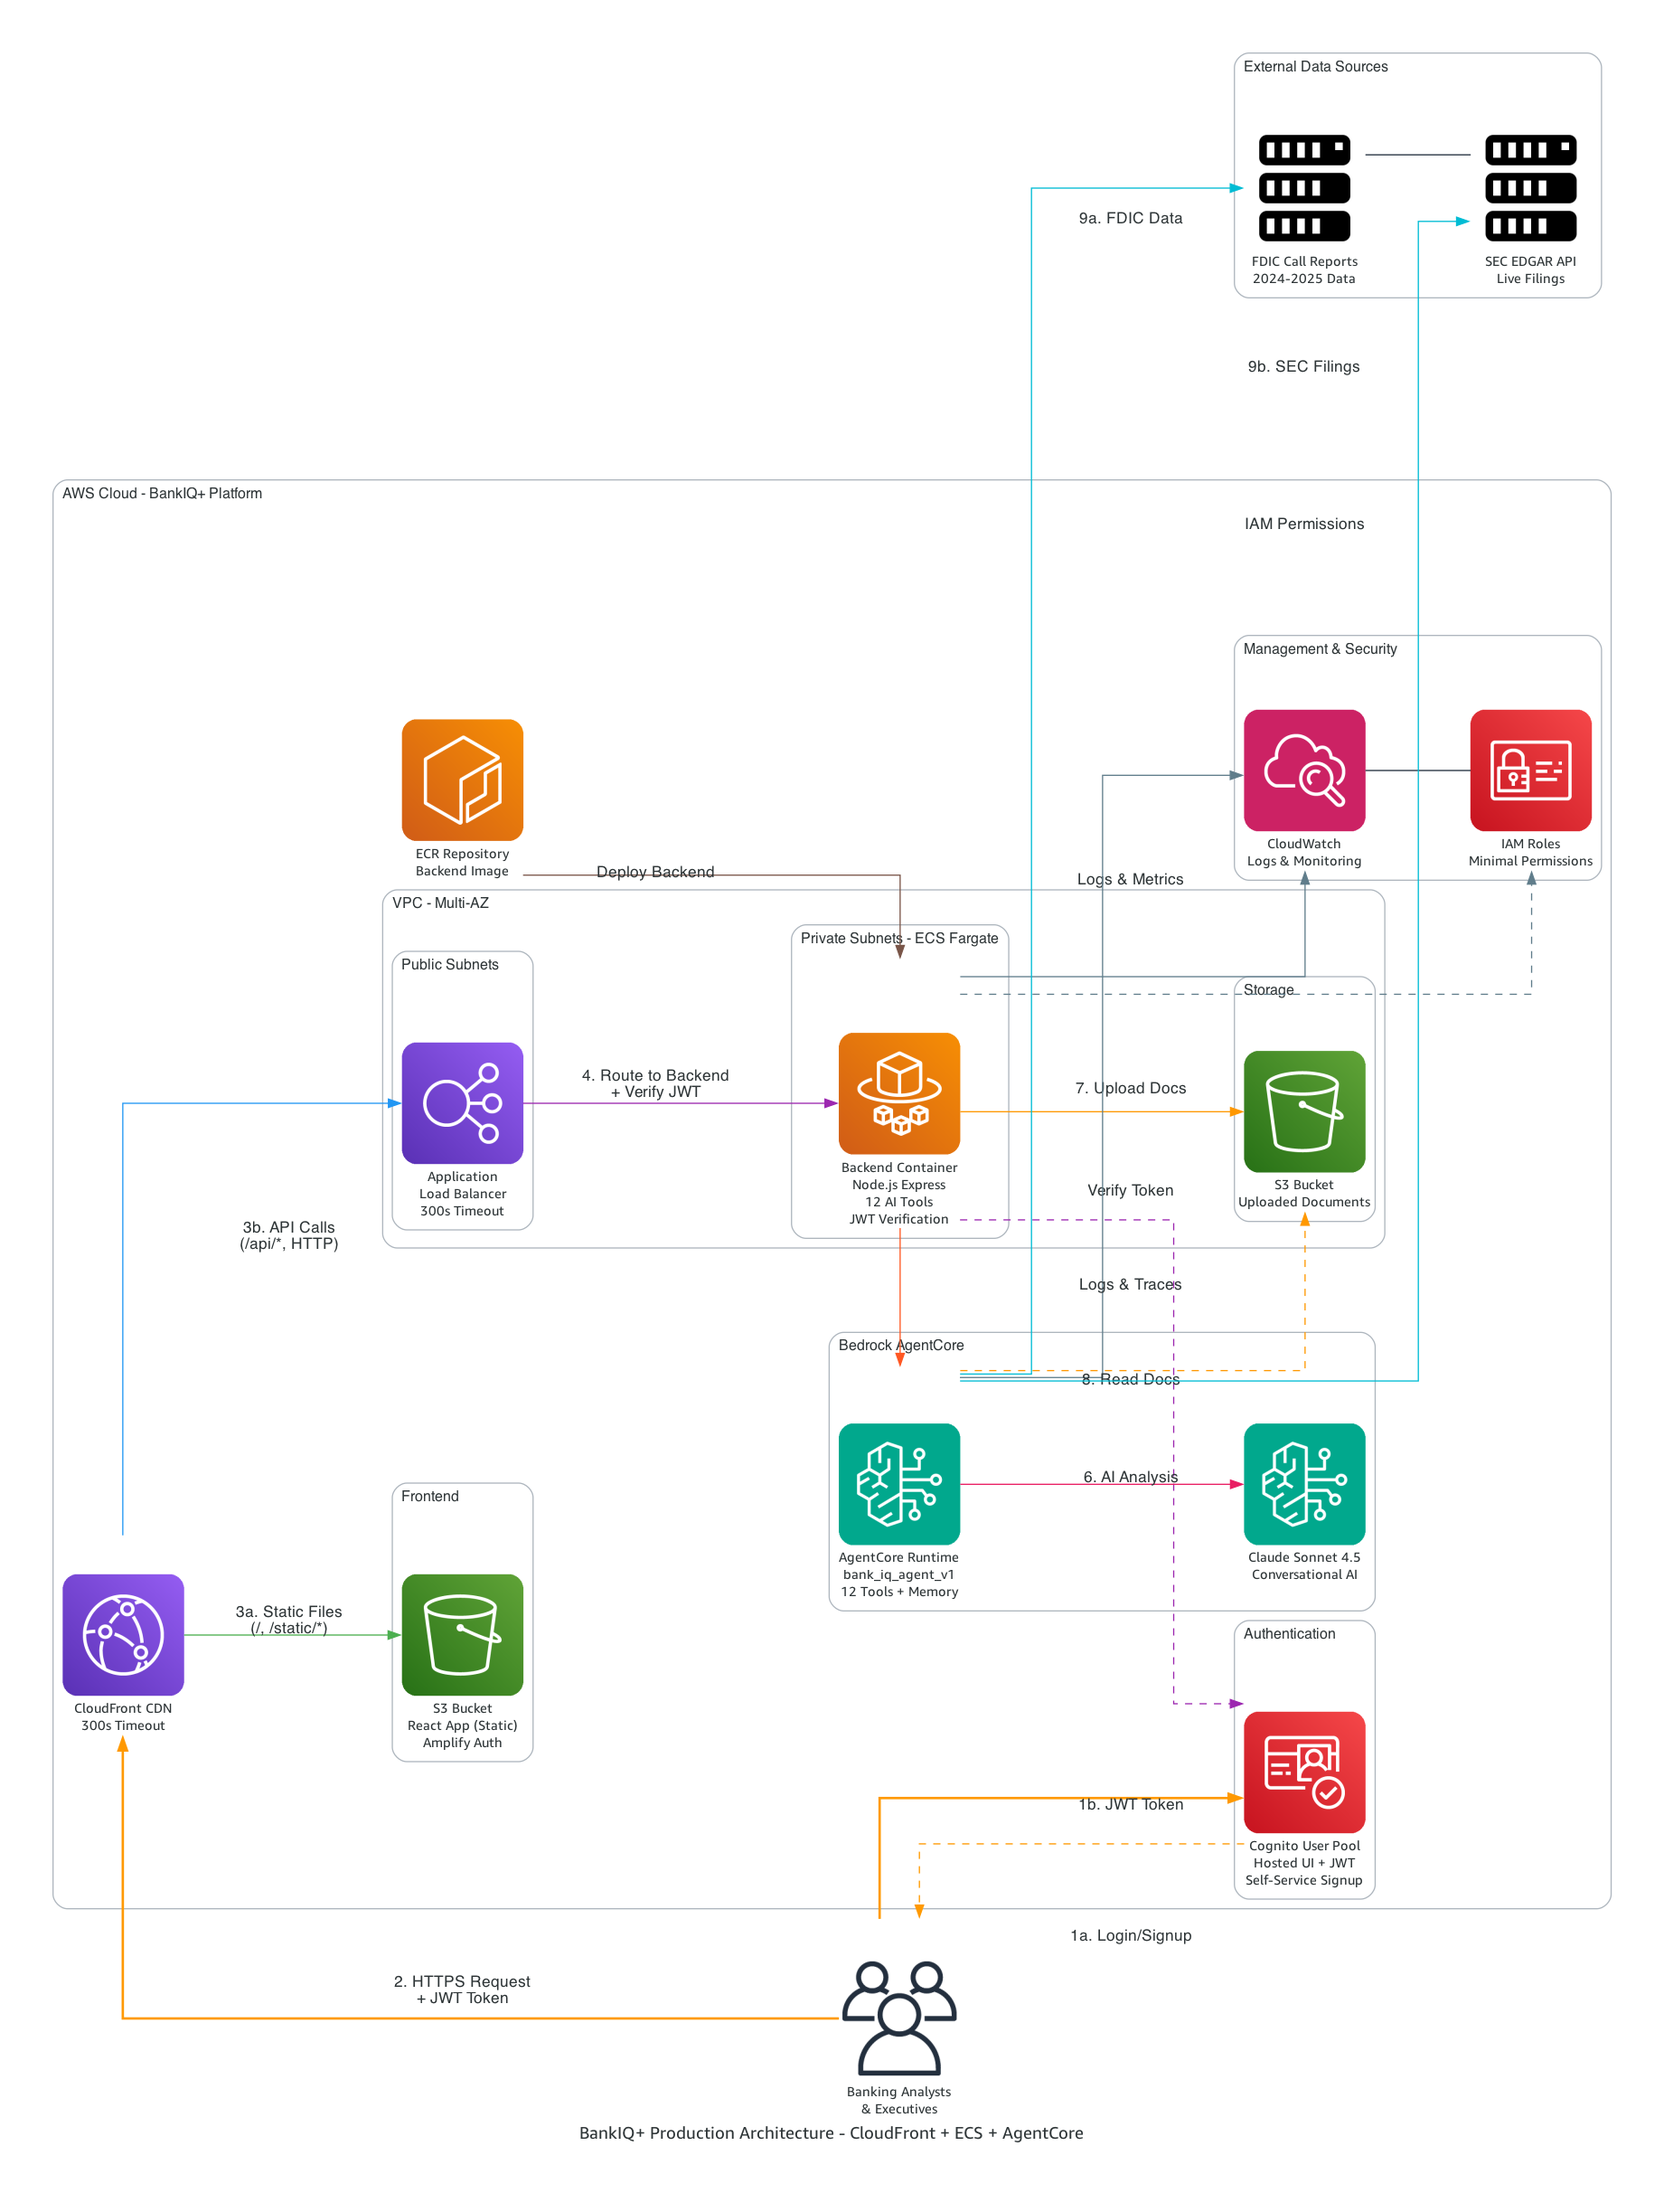
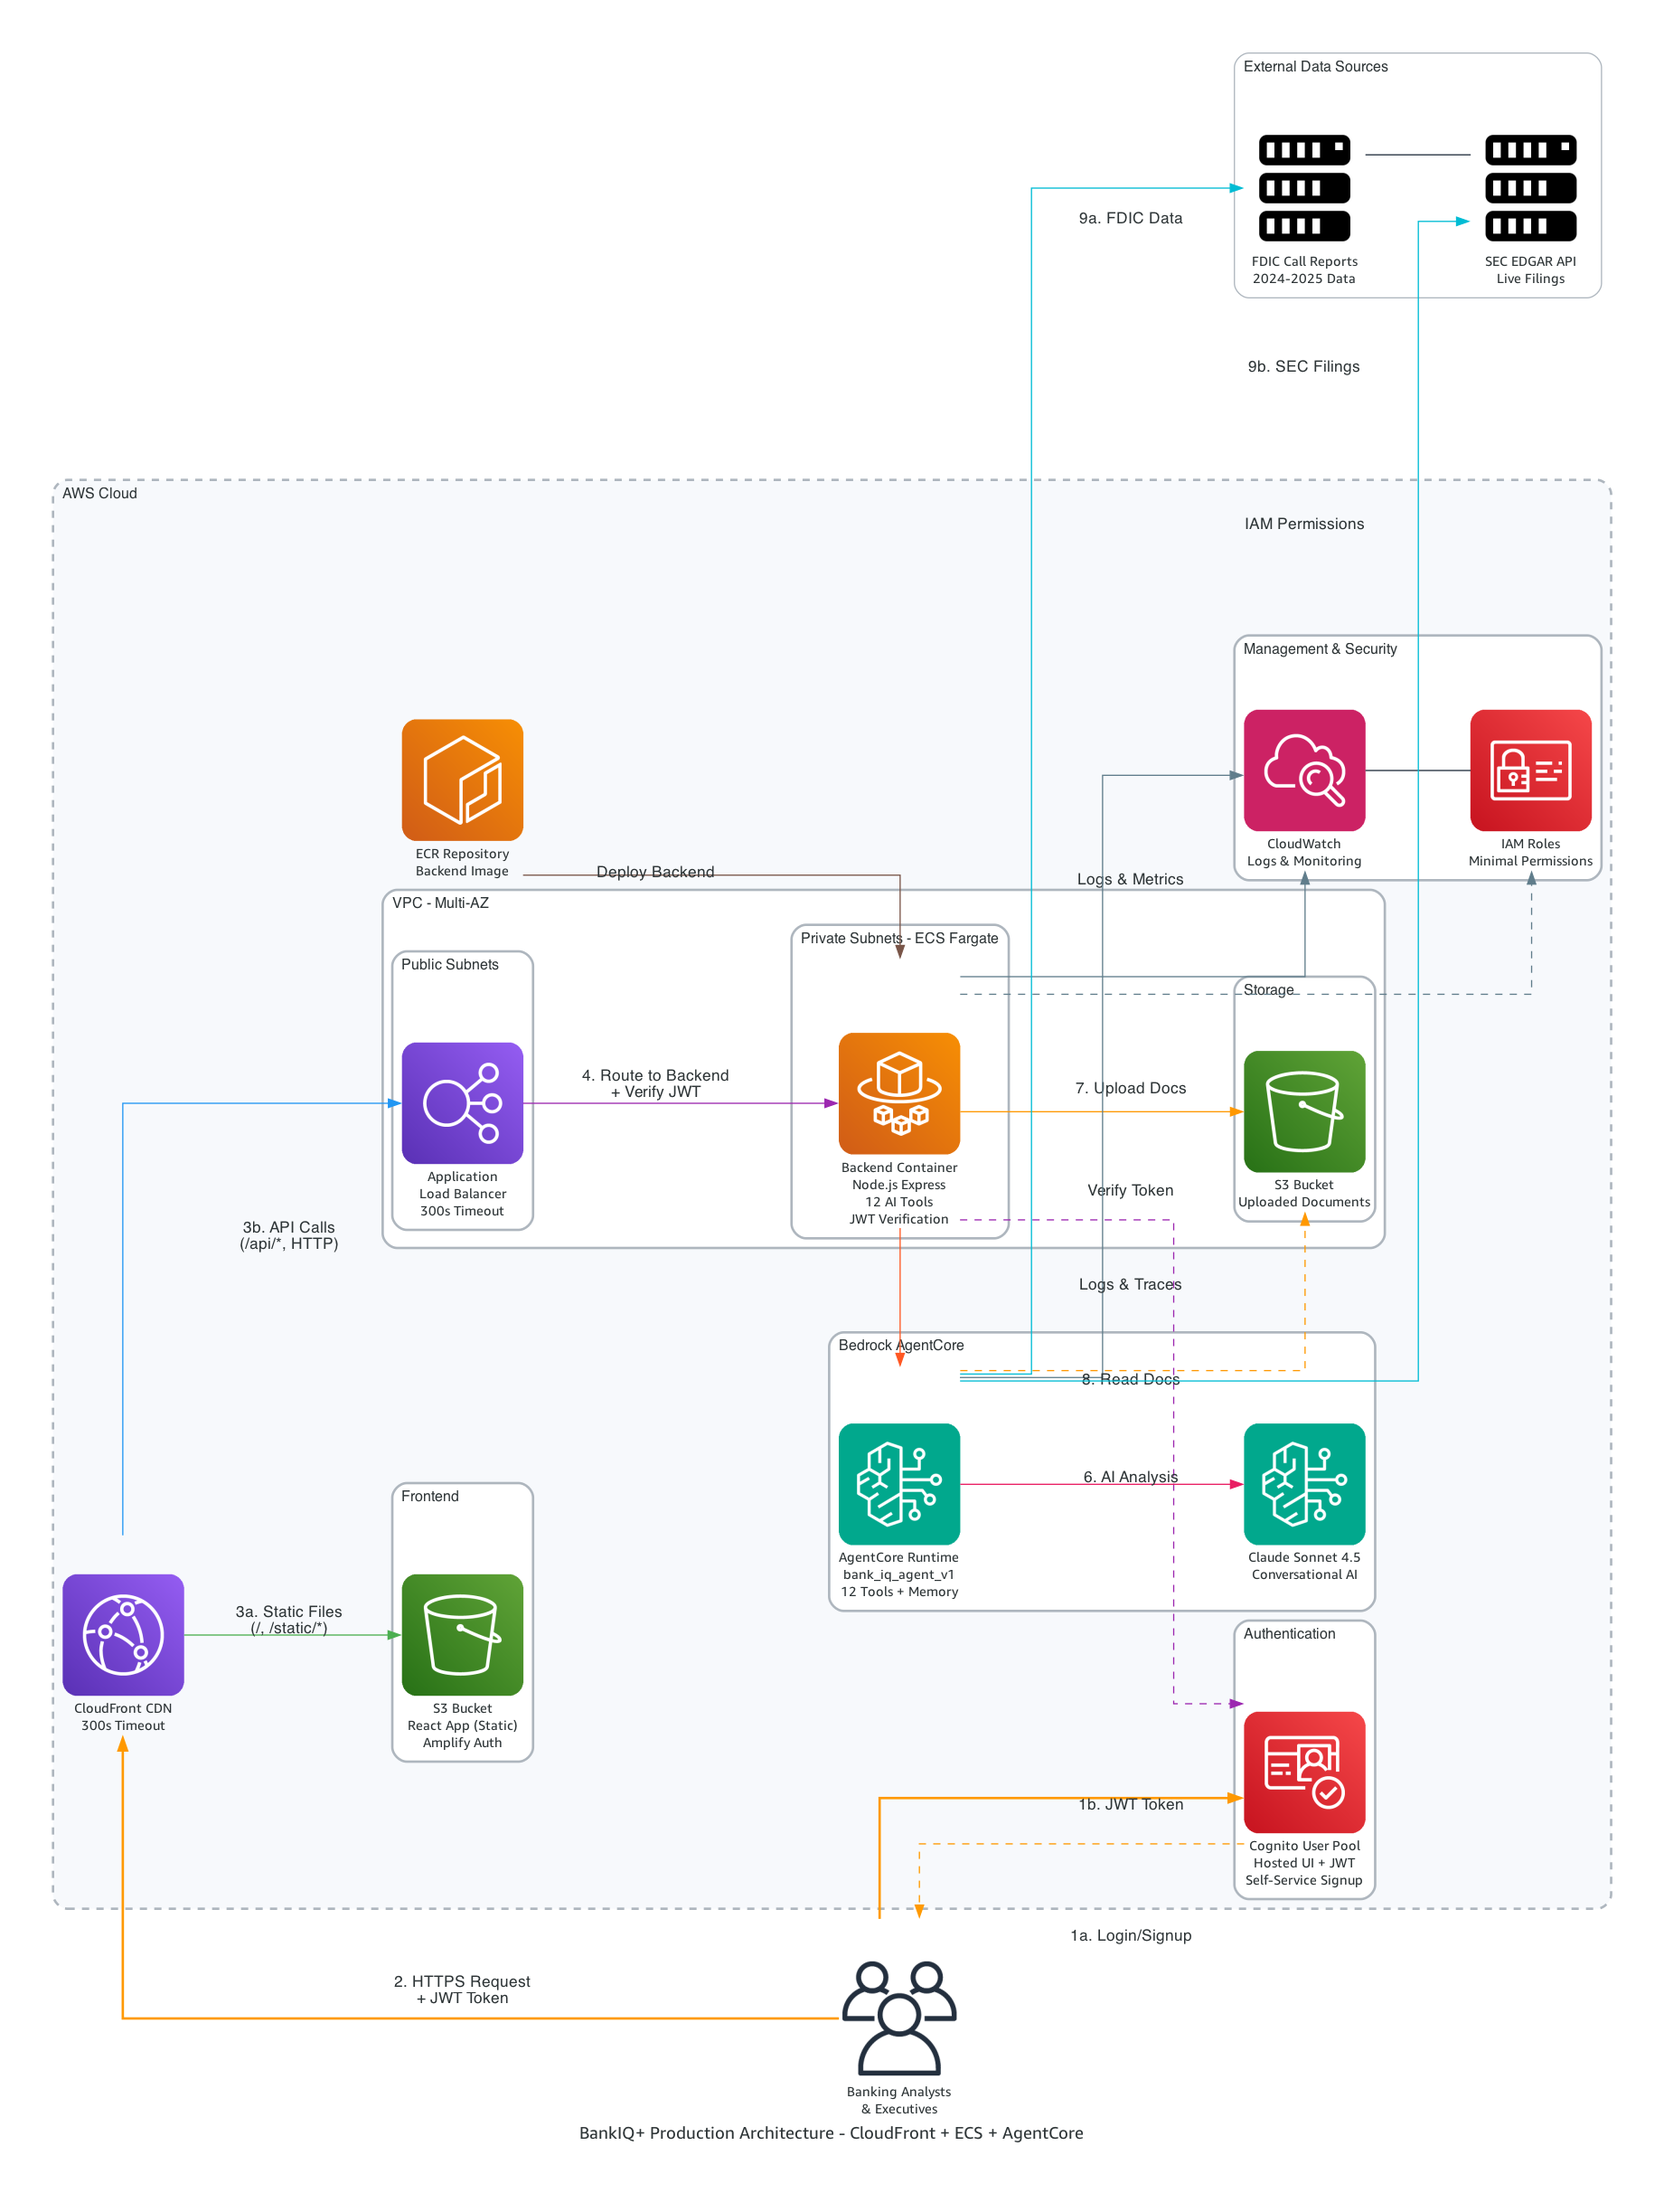
Revert to clean AWS Cloud label

Changed region(s): [[0.2477, 0.5567, 0.3096, 0.5876]]

diff --git a/arch/banking_architecture_diagram.py b/arch/banking_architecture_diagram.py
@@ -49,7 +49,7 @@ with Diagram(
     
 
     
-    with Cluster("AWS Cloud - BankIQ+ Platform", graph_attr={"bgcolor": "white", "style": "rounded", "color": "#232F3E"}):
+    with Cluster("AWS Cloud", graph_attr={"bgcolor": "#F7F9FC", "style": "rounded,dashed", "color": "#FF9900", "penwidth": "2"}):
         
         # Authentication
         with Cluster("Authentication", graph_attr={"bgcolor": "white", "style": "rounded"}):
